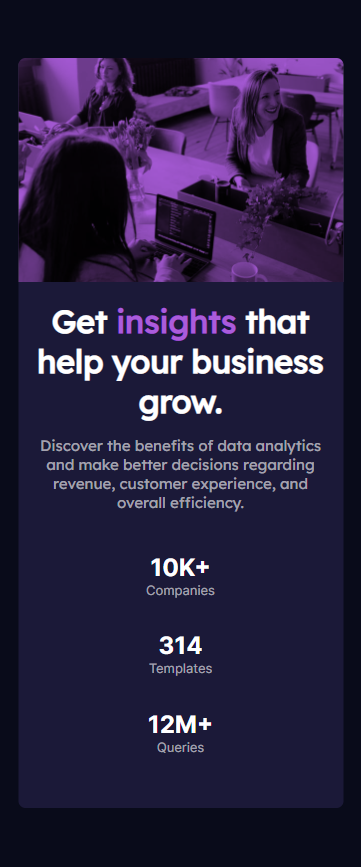
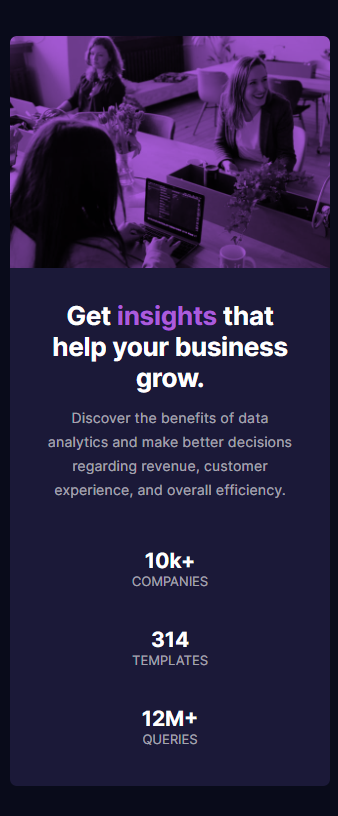
Update stats-preview-card-component

Changed region(s): [[0.0296, 0.0306, 0.9763, 0.9804], [0.2071, 0.2757, 0.2367, 0.337], [0.2663, 0.2757, 0.2959, 0.3064]]

diff --git a/stats-preview-card-component/style.css b/stats-preview-card-component/style.css
@@ -4,47 +4,28 @@
 body {
   font-size: 15px;
   background-color: hsl(233, 47%, 7%);
-  height: 100%;
-  width: 100%;
+  height: 100vh;
   margin: 0;
+  display: flex;
+  align-items: center;
+  justify-content: center;
 }
 
 section {
-  position: absolute;
-  top: 50%;
-  left: 50%;
-  transform: translate(-50%, -50%);
-  width: 900px;
-  height: 350px;
+  width: 1100px;
+  height: 446px;
   border-radius: 7px;
   overflow: hidden;
   display: flex;
   flex-direction: row;
 }
 
-@media (max-width: 375px) {
-  section {
-    flex-wrap: wrap-reverse;
-    width: 325px;
-    height: 750px;
-  }
-}
-
 article {
   background-color: hsl(244, 38%, 16%);
-  width: fit-content;
-  flex-basis: auto;
-  padding: 5%;
+  flex-basis: 100%;
   display: flex;
   flex-direction: column;
-}
-
-@media (max-width: 375px) {
-  article {
-    padding: 6% 5%;
-    text-align: center;
-    height: 65%;
-  }
+  justify-content: center;
 }
 
 .img {
@@ -52,73 +33,46 @@ article {
   background-image: url(./images/image-header-desktop.jpg);
   background-blend-mode: multiply;
   background-size: cover;
-  background-repeat: no-repeat;
   flex-basis: 100%;
 }
 
-@media (max-width: 375px) {
-  .img {
-    background-image: url(./images/image-header-mobile.jpg);
-    height: 31%;
-  }
-}
-
-.item1 {
+.a-text {
+  flex-basis: 100%;
   color: hsl(0, 0%, 100%);
   font-family: "Lexend Deca", sans-serif;
-  font-size: xx-large;
+  font-size: 2.5em;
+  padding: 4rem;
   font-weight: 700;
 }
 
-.item1 > span {
+.a-text > span {
   color: hsl(277, 64%, 61%);
 }
 
-.item2 {
+.a-text > p {
   color: hsla(0, 0%, 100%, 0.6);
-  font-family: "Lexend Deca", sans-serif;
-  font-size: small;
+  font-family: "Inter", sans-serif;
+  font-size: 1rem;
   font-weight: 400;
-  margin-right: 20%;
+  line-height: 170%;
+  margin-right: 10%;
   margin-top: 5%;
 }
 
-@media (max-width: 375px) {
-  .item2 {
-    margin-right: auto;
-    font-size: inherit;
-    margin-bottom: 10%;
-  }
-}
-
-.item3 {
+.a-grid {
+  flex-basis: 100%;
   display: grid;
   grid-template-columns: repeat(3, 1fr);
-  margin-top: 15%;
-}
-
-@media (max-width: 375px) {
-  .item3 {
-    height: 100%;
-    grid-template-rows: repeat(3, 1fr);
-    grid-template-columns: auto;
-    margin-top: 4%;
-  }
+  padding: 0 4rem;
 }
 
 .i-c {
   color: hsl(0, 0%, 100%);
   font-family: "Inter", sans-serif;
-  font-size: large;
+  font-size: x-large;
   font-weight: 700;
   display: flex;
   flex-direction: column;
-}
-
-@media (max-width: 375px) {
-  .i-c {
-    font-size: x-large;
-  }
 }
 
 .i-c > span {
@@ -126,4 +80,41 @@ article {
   font-family: "Inter", sans-serif;
   font-size: small;
   font-weight: 400;
+}
+
+@media (max-width: 375px) {
+  section {
+    flex-direction: column-reverse;
+    width: 320px;
+    height: 750px;
+  }
+  article {
+    text-align: center;
+  }
+  .img {
+    background-image: url(./images/image-header-mobile.jpg);
+    flex-basis: 45%;
+  }
+  .a-text {
+    flex-basis: auto;
+    color: hsl(0, 0%, 100%);
+    font-family: "Inter", sans-serif;
+    font-size: 1.7em;
+    padding: 2rem;
+  }
+
+  .a-text > p {
+    color: hsla(0, 0%, 100%, 0.6);
+    font-family: "Inter", sans-serif;
+    font-size: 0.9rem;
+    margin-right: auto;
+  }
+  .a-grid {
+    flex-basis: 100%;
+    grid-template-rows: repeat(3, 1fr);
+    grid-template-columns: auto;
+  }
+  .i-c {
+    font-size: 1.3rem;
+  }
 }

diff --git a/stats-preview-card-component/index.html b/stats-preview-card-component/index.html
@@ -14,12 +14,15 @@
 <body>
   <section>
     <article>
-      <div class="item1">Get <span>insights</span> that help your business grow.</div>
-      <div class="item2">Discover the benefits of data analytics and make better decisions regarding revenue, customer experience, and overall efficiency.</div>
-      <div class="item3">
-        <div class="i-c">10K+ <span>Companies</span></div>
-        <div class="i-c">314 <span>Templates</span></div>
-        <div class="i-c">12M+ <span>Queries</span></div>
+      <div class="a-text">
+        Get <span>insights</span> that help your business grow.
+        <p>Discover the benefits of data analytics and make better decisions regarding revenue, customer experience, and
+          overall efficiency.</p>
+      </div>
+      <div class="a-grid">
+        <div class="i-c">10k+ <span>COMPANIES</span></div>
+        <div class="i-c">314 <span>TEMPLATES</span></div>
+        <div class="i-c">12M+ <span>QUERIES</span></div>
       </div>
     </article>
     <div class="img"></div>
